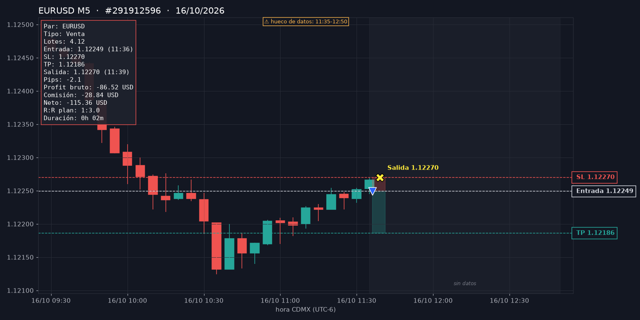
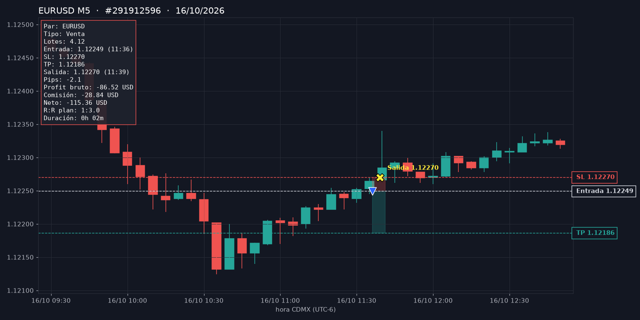
Trade #306663871 cerrado (tj-v36)

Changed region(s): [[0.5625, 0.4375, 0.9062, 0.5625], [0.4062, 0.0312, 0.5625, 0.0938], [0.7188, 0.875, 0.75, 0.9062]]

diff --git a/sw.js b/sw.js
@@ -1,5 +1,5 @@
 // Sube VERSION al actualizar data.json o assets
-const VERSION='tj-v35';
+const VERSION='tj-v36';
 const CORE=['./','./index.html','./style.css','./app.js','./manifest.json','./vendor/chart.umd.min.js','./icons/icon-192.png','./icons/icon-512.png','./icons/apple-touch-icon.png','./data.json'];
 self.addEventListener('install',e=>e.waitUntil(caches.open(VERSION).then(c=>c.addAll(CORE)).then(()=>self.skipWaiting())));
 self.addEventListener('activate',e=>e.waitUntil(caches.keys().then(ks=>Promise.all(ks.filter(k=>k!==VERSION).map(k=>caches.delete(k)))).then(()=>self.clients.claim())));
